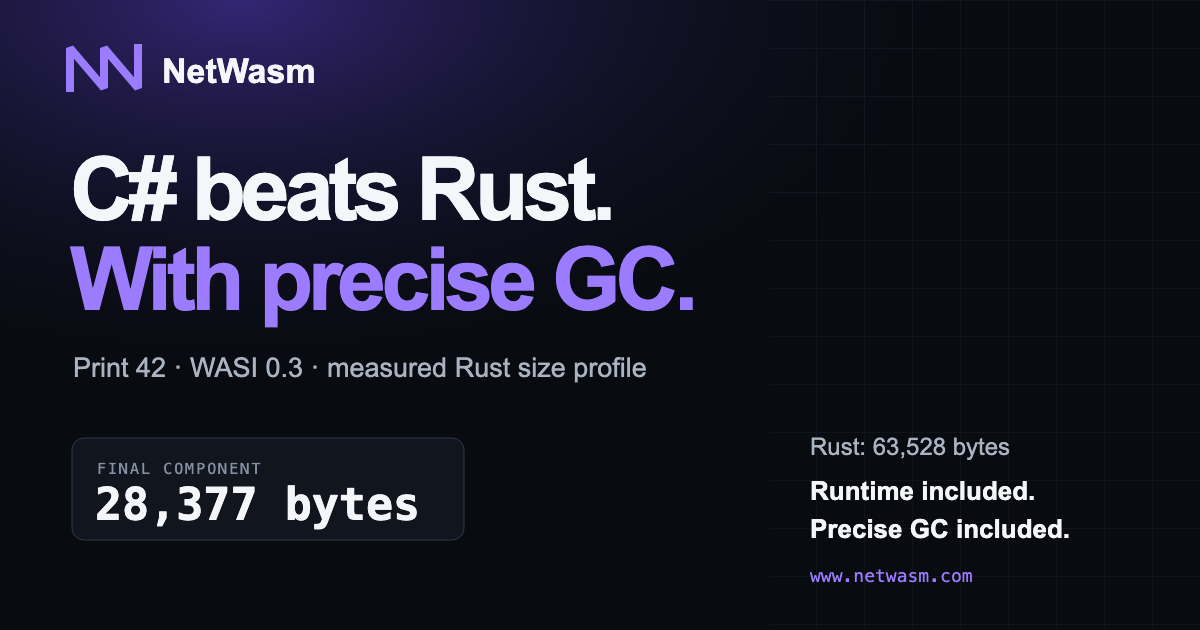
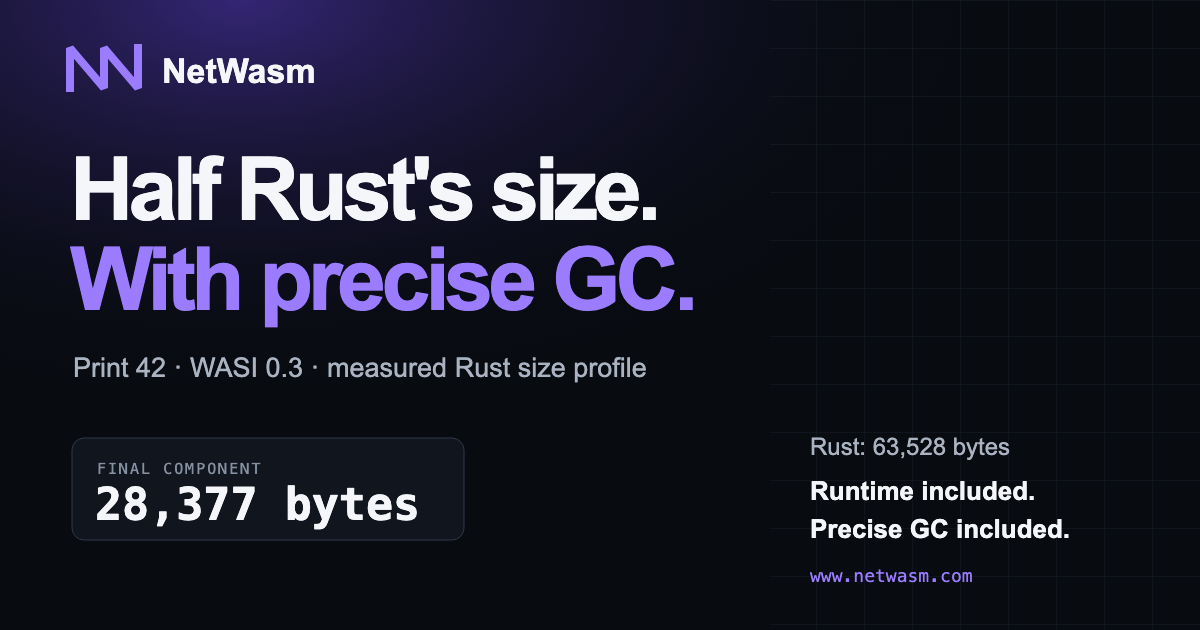
Say what the print-42 comparison now shows: less than half Rust's size

Changed region(s): [[0.0617, 0.2413, 0.555, 0.3619]]

diff --git a/index.html b/index.html
@@ -8,12 +8,12 @@
     <meta name="description" content="Compile C# and .NET CIL to small, standalone WebAssembly modules and WASI components with NetWasm's independent compiler, runtime, CoreLib, and SDK.">
     <meta property="og:type" content="website">
     <meta property="og:title" content="NetWasm: Compile C# to WebAssembly at native Wasm size">
-    <meta property="og:description" content="C# with precise GC: 28,377 bytes for printing 42, smaller than the measured Rust size profile. Compile standalone WebAssembly with NetWasm.">
+    <meta property="og:description" content="C# with precise GC: 28,377 bytes for printing 42, less than half the measured Rust size profile. Compile standalone WebAssembly with NetWasm.">
     <meta property="og:url" content="https://www.netwasm.com/">
     <meta property="og:image" content="https://www.netwasm.com/og-card.png">
     <meta name="twitter:card" content="summary_large_image">
     <meta name="twitter:title" content="NetWasm: Compile C# to WebAssembly at native Wasm size">
-    <meta name="twitter:description" content="C# with precise GC: 28,377 bytes for printing 42, smaller than the measured Rust size profile. Compile standalone WebAssembly with NetWasm.">
+    <meta name="twitter:description" content="C# with precise GC: 28,377 bytes for printing 42, less than half the measured Rust size profile. Compile standalone WebAssembly with NetWasm.">
     <meta name="twitter:image" content="https://www.netwasm.com/og-card.png">
     <link rel="canonical" href="https://www.netwasm.com/">
     <link rel="icon" href="favicon.svg" type="image/svg+xml" sizes="any">
@@ -78,7 +78,7 @@
         <div class="hero-copy">
           <p class="eyebrow"><span></span> Independent .NET. Built outside Microsoft.</p>
           <h1>Compile C#<br>to <em>WebAssembly.</em></h1>
-          <p class="hero-lede">C# with precise GC beats Rust's size-oriented profile for printing <code>42</code>: 28,377 bytes versus 63,528 bytes. Both are standalone WASI 0.3 components. NetWasm includes its runtime and reachable precise-GC support.</p>
+          <p class="hero-lede">C# with precise GC is less than half the size of Rust's size-oriented profile for printing <code>42</code>: 28,377 bytes versus 63,528. Both are standalone WASI 0.3 components. NetWasm includes its runtime and reachable precise-GC support.</p>
           <div class="hero-actions">
             <a class="button button-primary" href="https://playground.netwasm.com/" target="_blank" rel="noopener noreferrer">
               Try NetWasm now, no install
@@ -126,7 +126,7 @@
         <div class="section-heading">
           <div>
             <p class="section-kicker">Measured size</p>
-            <h2 id="release-title">C# beats Rust.<br><span>With precise GC included.</span></h2>
+            <h2 id="release-title">Less than half Rust's size.<br><span>With precise GC included.</span></h2>
           </div>
           <p>The released SDK produces a 28,377-byte Release/Oz component for <code>Console.WriteLine(42)</code>, or 11,880 bytes with Brotli quality 11. Rust 1.100.0's documented size-oriented profile produces a 63,528-byte WASI 0.3 component for the same print-42 workload. Running wasm-opt by hand on the core module of Rust's WASI 0.2 build, then re-encoding and stripping the component, brings it to 41,185 bytes: still larger. This is a measured workload, not a claim about the smallest possible Rust binary.</p>
         </div>
